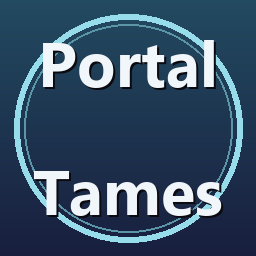
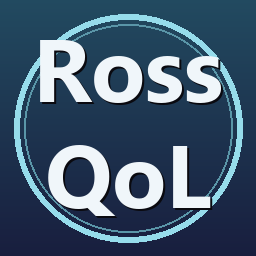
feat: RossQoL packaging, store page and docs
Claude-Session: https://claude.ai/code/session_01S8darKhWJhtjnq62TmG4Fq

Changed region(s): [[0.125, 0.5625, 0.875, 0.875], [0.1562, 0.1562, 0.875, 0.4375]]

diff --git a/RossQoL/tools/make-icon.py b/RossQoL/tools/make-icon.py
@@ -6,19 +6,18 @@ source instead of being an opaque committed binary. Run it when the
 wordmark or palette changes -- Thunderstore requires exactly 256x256
 PNG and rejects anything else.
 
-    python RossPortalTames/tools/make-icon.py
+    python RossQoL/tools/make-icon.py
 
 Requires Pillow. Uses Segoe UI Bold, so it wants a Windows font directory.
 """
 from PIL import Image, ImageDraw, ImageFont
 
 SIZE = 256
-WORDS = ["Portal", "Tames"]
+WORDS = ["Ross", "QoL"]
 FONT_PATH = r"C:\Windows\Fonts\segoeuib.ttf"
-OUT = "RossPortalTames/thunderstore/icon.png"
+OUT = "RossQoL/thunderstore/icon.png"
 
-# A portal-ish teal-to-indigo backdrop with cream text, so the store tile
-# reads as "portal" rather than as generic mod art.
+# Teal-to-indigo backdrop with cream text; kept from the PortalTames icon.
 BG_TOP, BG_BOTTOM = (34, 74, 96), (24, 30, 62)
 TEXT, SHADOW = (240, 246, 250), (10, 10, 16)
 RING = (150, 220, 235)
@@ -48,7 +47,7 @@ def main():
         draw.line([(0, y), (SIZE, y)], fill=tuple(
             round(a + (b - a) * t) for a, b in zip(BG_TOP, BG_BOTTOM)))
 
-    # A stylised portal ring behind the wordmark.
+    # A ring behind the wordmark.
     cx, cy, r = SIZE / 2.0, SIZE / 2.0, SIZE / 2.0 - 14
     draw.ellipse([cx - r, cy - r, cx + r, cy + r], outline=RING, width=6)
     draw.ellipse([cx - r + 10, cy - r + 10, cx + r - 10, cy + r - 10],

diff --git a/RossQoL/README.md b/RossQoL/README.md
@@ -1,79 +1,32 @@
-# RossPortalTames
+# RossQoL
 
-Tames that are following you come through the portal with you.
+Quality-of-life tweaks for Valheim 1.0 in one BepInEx mod. Design:
+[docs/superpowers/specs/2026-09-13-rossqol-design.md](docs/superpowers/specs/2026-09-13-rossqol-design.md).
 
-Valheim's portals don't bring your tames along: walk your wolves up to a
-portal, step through, and they're left standing on the far side of the
-map. This mod fixes that — tames that are actually following you and
-within range step through with you and arrive near your destination.
+## Layout
 
-**Design:** [docs/superpowers/specs/2026-09-13-portal-tames-design.md](docs/superpowers/specs/2026-09-13-portal-tames-design.md)
-
-## Behaviour
-
-- Tames following you within `FollowRadius` at the moment you use a
-  portal come through with you.
-- Each arriving tame is placed at a clear spot near your destination,
-  searching outward up to `SearchDistance`; if nothing clear is found it
-  falls back to your own arrival position, where creatures separate
-  themselves naturally.
-- A ridden creature (a saddled lox, for example) is excluded — it isn't
-  left behind in the first place.
-- If a followed tame dies mid-transit, or the portal has no target set,
-  nothing errors and the remaining tames still arrive normally.
-
-## Client-side only
-
-This mod is entirely client-side. There is nothing to install on a
-dedicated server — install it only for the players who want it, and it
-works fine on servers that don't have it at all.
-
-## Config
-
-Three settings, all under `[General]`, all local to your own client (see
-`PortalTamesConfig` for why these are not server-synced):
-
-| Setting | Default | What it does |
-|---|---|---|
-| `Enabled` | `true` | Whether tames following you come through portals at all. |
-| `FollowRadius` | `20` (metres) | How close a following tame must be, in three dimensions, to come along. Set to `0` to bring nothing. |
-| `SearchDistance` | `6` (metres) | How far from your arrival point to look for a clear spot to place each tame before falling back to your own position. Lower it for tight portal huts. |
-
-## Building
-
-Requires a .NET SDK (targets `netstandard2.1`) and a Valheim install.
-Valheim assemblies are referenced through
-`BepInEx.AssemblyPublicizer.MSBuild` and are never committed. No Jotunn
-dependency.
-
-```bash
-cd RossPortalTames
-dotnet build -c Release
+```
+src/RossQoL.Core/<Category>/   engine-free rules, unit-tested
+src/RossQoL.Game/Framework/    Feature, Category, activation, compat checks
+src/RossQoL.Game/<Category>/   features, Harmony patches, Unity adapters
+tests/RossQoL.Core.Tests/      xunit
+thunderstore/                  manifest, README, CHANGELOG, icon
 ```
 
-## Deploying to r2modman
+## Build, test, deploy
 
-`./deploy.sh [profile]` builds Release and copies every produced
-assembly (`RossPortalTames.dll` and `RossPortalTames.Core.dll` — the
-plugin depends on the Core DLL, so both must ship together) into a
-r2modman profile's `BepInEx/plugins/RossPortalTames` folder.
+```bash
+dotnet test RossQoL/RossQoL.sln
+bash RossQoL/deploy.sh          # r2modman dev profile only
+bash RossQoL/package.sh         # Thunderstore zip
+```
 
-Defaults to the `dev` profile. **Never point it at `Default`** —
-r2modman owns that profile, and hand-copying into it desynchronises what
-is installed from what r2modman believes is installed.
+Needs `VALHEIM_INSTALL` and `JOTUNN_INSTALL` (see `Directory.Build.props`).
 
-## Packaging
+## Adding a feature
 
-`./package.sh` builds Release and assembles the Thunderstore zip
-`RossPortalTames-<version>.zip`. It refuses to build if
-`thunderstore/manifest.json`'s `version_number` disagrees with
-`PortalTamesPlugin.PluginVersion`, and refuses to package if either
-assembly is missing from the build output.
-
-## Status
-
-Implemented and buildable, with Thunderstore packaging, icon, and
-documentation in place. Outstanding before release: a human in-game
-verification pass (see the task brief's manual verification checklist)
-and a dedicated-server check, since the design assumes moved tames
-persist across zone unload/reload.
+See "Adding a feature" at the end of the design spec. In short: pick a
+category by what the feature modifies, choose `Client` or `Synced`, put
+testable rules in Core, subclass `Feature` in Game, list every patch class
+and every Valheim member it reaches by name, and register it in
+`FeatureRegistry`.

diff --git a/RossQoL/thunderstore/README.md b/RossQoL/thunderstore/README.md
@@ -1,33 +1,47 @@
-# RossPortalTames
+# RossQoL
 
-Tames that are following you come through the portal with you.
+Small quality-of-life tweaks for Valheim, in one mod. Every tweak has its
+own switch, and every category has a master switch, so you keep only what
+you want.
 
-Walk your wolves up to a portal, step through, and they step through
-too — instead of being left behind on the other side of the map. Only
-tames that are actually following you and within range make the trip;
-anything ridden (a saddled lox, for example) is excluded, since it isn't
-"left behind" in the same sense.
+All config lives in `BepInEx/config/com.rossdwest.rossqol.cfg`. Each
+setting's description says whether it is a **personal setting** or
+**server-controlled when connected**. Changing a feature's on/off switch
+takes effect after a restart.
 
-## Client-side only
+Every player on a server needs RossQoL, at the same minor version.
 
-This mod is entirely client-side. There is nothing to install on a
-dedicated server — install it only for the players who want their tames
-to follow them through portals, and it works with servers that don't
-have it at all.
-
-## Config
-
-All settings live under `[General]` and are local to your own client —
-they only affect which of your own tames follow you.
+## Portals
 
 | Setting | Default | What it does |
 |---|---|---|
-| `Enabled` | `true` | Whether tames following you come through portals at all. |
-| `FollowRadius` | `20` (metres) | How close a following tame must be to come along. Measured in three dimensions, so a tame on a roof is as far as one across the ground. Set to `0` to bring nothing. |
-| `SearchDistance` | `6` (metres) | How far from your arrival point to look for a clear spot to place each tame. Anything that can't be placed within this distance is put at your own position instead, where creatures separate themselves naturally. Lower it for tight portal huts. |
+| `Enabled` | `true` | All portal tweaks. |
+| `TamesFollow` | `true` | Tames following you come through portals with you. |
+| `TameFollowRadius` | `20` (metres) | How close a following tame must be to come along. Measured in three dimensions. `0` brings nothing. |
+| `TameSearchDistance` | `6` (metres) | How far from your arrival point to look for a clear spot for each tame, before placing it at your own position. Lower it for tight portal huts. |
+
+Ridden creatures (a saddled lox, for example) are not brought along.
+
+## Startup
+
+| Setting | Default | What it does |
+|---|---|---|
+| `Enabled` | `true` | All startup and main menu tweaks. |
+| `ContinueButton` | `true` | A **Continue** button on the main menu resumes your last session: the local world or server you last played, with the character you used. |
+| `SkipSplash` | `true` | Skips the logos at launch and the main menu intro video. |
+| `SkipValkyrie` | `true` | Skips the Valkyrie flight and intro text on a new character's first spawn. You start at the sacrificial stones as normal. |
+
+About Continue:
+
+- Local worlds resume **private**. To host for friends, use Start game as usual.
+- Server passwords are never stored; the normal password prompt appears.
+- Crossplay servers are rejoined by join code when one is known, falling
+  back to the server's id. Codes change when a host restarts.
+- The button is hidden when the recorded character or world is gone, or
+  when the game was launched with `+connect`, `-joincode` or
+  `-joinserverwithcharacter`.
 
 ## Dependencies
 
 - BepInEx 5.4.2350
-
-No Jotunn dependency.
+- Jotunn 2.30.0

diff --git a/RossQoL/thunderstore/CHANGELOG.md b/RossQoL/thunderstore/CHANGELOG.md
@@ -4,11 +4,12 @@
 
 First public build.
 
-- Tames following you that are within `FollowRadius` come through the
-  portal with you and arrive near your destination.
-- Each arriving tame is placed at a clear spot within `SearchDistance`
-  of your arrival point where possible, falling back to your own
-  position if nothing clear is found nearby.
-- Ridden creatures (e.g. a saddled lox) are excluded — they aren't left
-  behind in the first place.
-- Client-side only; no server install required.
+- **Portals / TamesFollow:** tames following you within `TameFollowRadius`
+  come through portals with you and are placed at a clear spot near your
+  arrival. (Previously planned as the separate RossPortalTames mod, which
+  was never released.)
+- **Startup / ContinueButton:** main menu button resuming your last local
+  world or server with the character you used.
+- **Startup / SkipSplash:** no launch logos, no menu intro video.
+- **Startup / SkipValkyrie:** no Valkyrie intro for new characters.
+- Every feature and category can be switched off in one config file.

diff --git a/README.md b/README.md
@@ -6,7 +6,7 @@ buildable and independently packaged for Thunderstore.
 | Mod | What it does | State |
 |---|---|---|
 | [ItemDrawers](ItemDrawers/) | Wood, stone and black marble drawers that each hold a large quantity of one item and show it on the front. Clean-room rewrite; ships no art. | Implemented; Thunderstore packaging in place, icon.png outstanding |
-| [RossPortalTames](RossPortalTames/) | Tames following you come through portals with you. Client-side only; no Jotunn. | Implemented |
+| [RossQoL](RossQoL/) | Quality-of-life tweaks, each switchable: tames follow you through portals, a Continue button, skipped intros. Requires Jotunn. | Implemented |
 
 ## Layout
 
